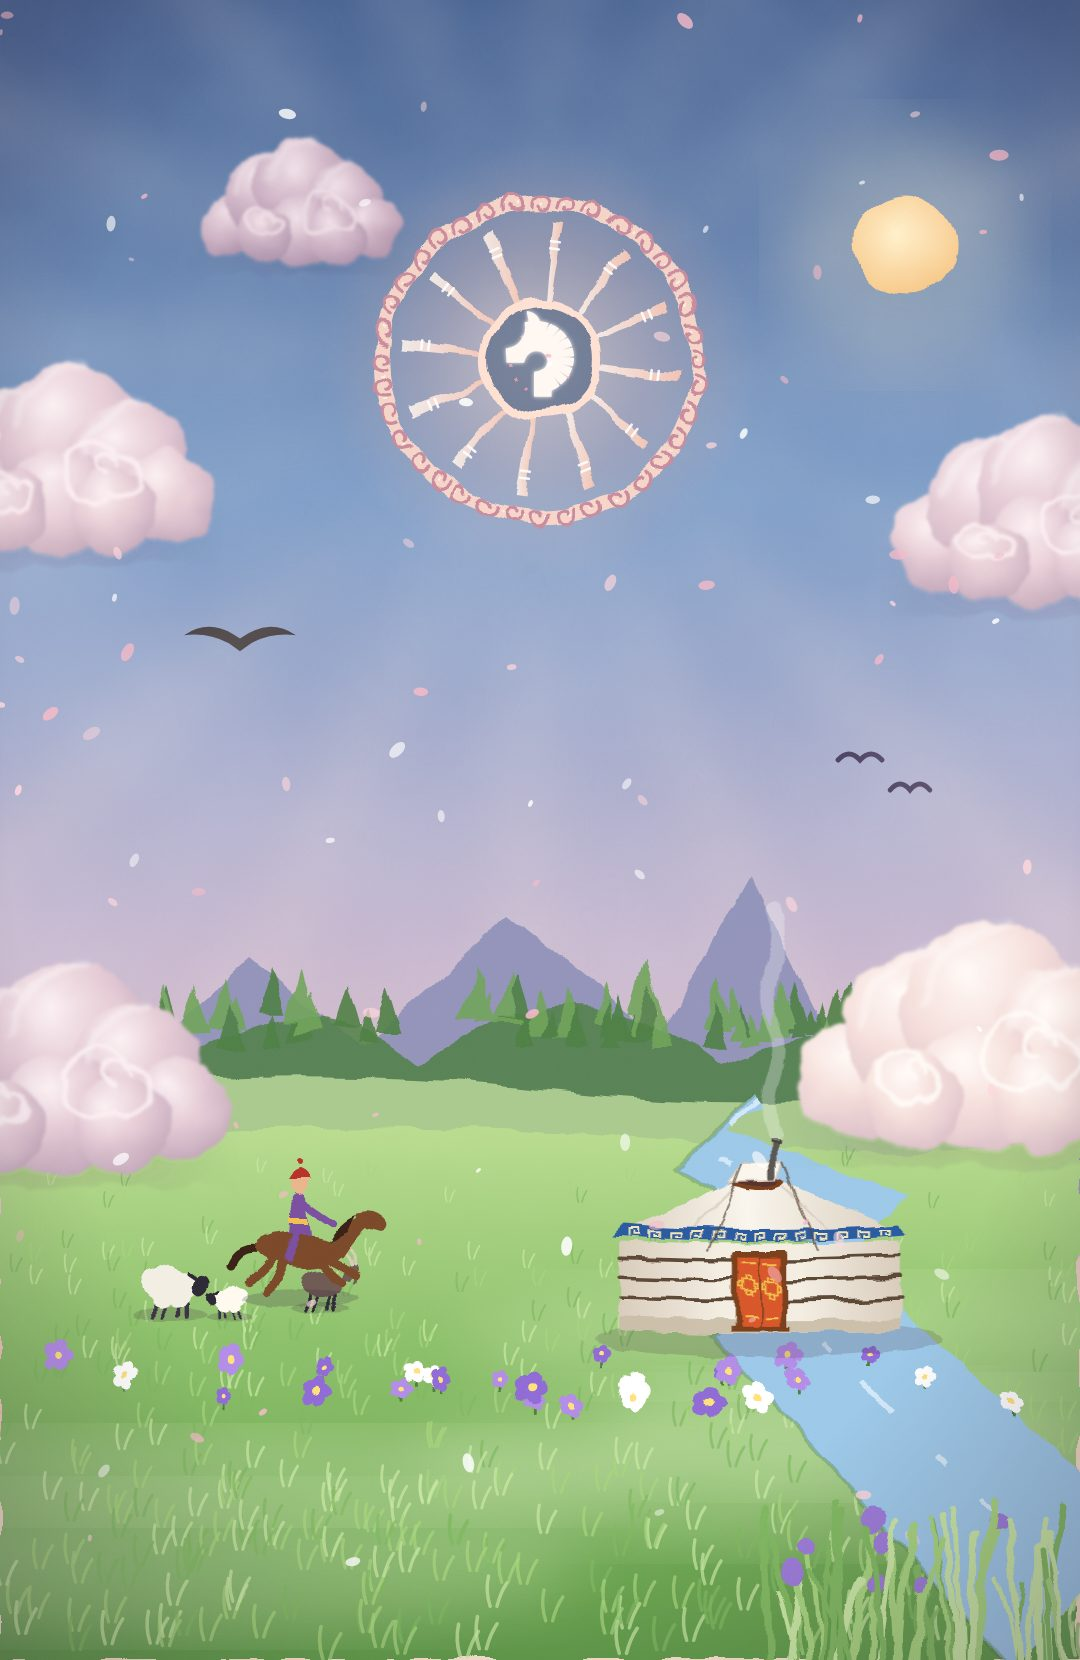
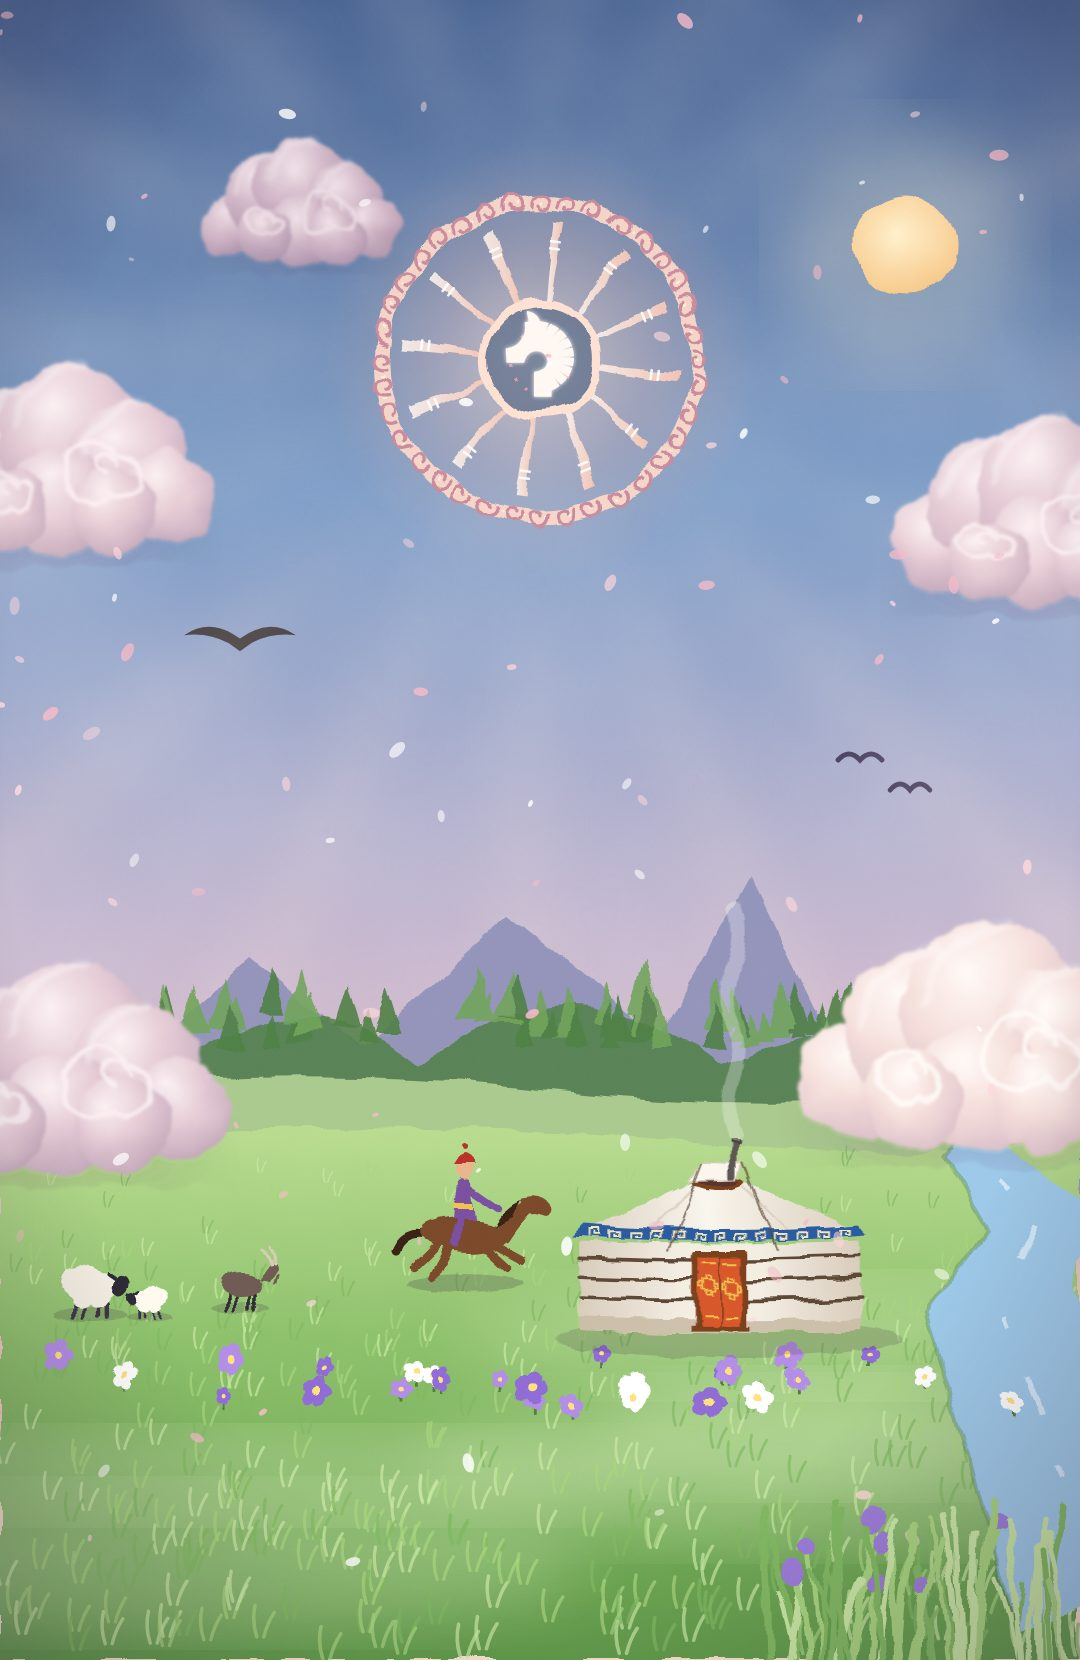
Fix photo viewer opening the first photo; heroes: ger off the river, horses apart
Claude-Session: https://claude.ai/code/session_013mTHg5jK5EjhttnQogVYog

Changed region(s): [[0.5194, 0.553, 1.0, 1.0], [0.0611, 0.6759, 0.5194, 0.7988], [0.9778, 0.9524, 1.0, 0.9831]]

diff --git a/css/style.css b/css/style.css
@@ -3507,16 +3507,16 @@ html.i18n-wait body { visibility: hidden; }
 .form__status.is-err { color: #b8322a; }
 /* Home hero changes with the season (html[data-season] is set in the page head) */
 .hero__bg--season { background: #1a1d36 center 40% / cover no-repeat; }
-html[data-season="winter"] .hero__bg--season { background-image: url(../assets/img/hero-winter.jpg?v=9); }
-html[data-season="spring"] .hero__bg--season { background-image: url(../assets/img/hero-spring.jpg?v=9); background-color: #7c9cc7; }
-html[data-season="summer"] .hero__bg--season { background-image: url(../assets/img/hero-summer.jpg?v=9); background-color: #3f86cf; }
-html[data-season="autumn"] .hero__bg--season { background-image: url(../assets/img/hero-autumn.jpg?v=9); background-color: #a65a5c; }
+html[data-season="winter"] .hero__bg--season { background-image: url(../assets/img/hero-winter.jpg?v=10); }
+html[data-season="spring"] .hero__bg--season { background-image: url(../assets/img/hero-spring.jpg?v=10); background-color: #7c9cc7; }
+html[data-season="summer"] .hero__bg--season { background-image: url(../assets/img/hero-summer.jpg?v=10); background-color: #3f86cf; }
+html[data-season="autumn"] .hero__bg--season { background-image: url(../assets/img/hero-autumn.jpg?v=10); background-color: #a65a5c; }
 @media (max-width: 700px) {
   .hero__bg--season { background-position: center top; }
-  html[data-season="winter"] .hero__bg--season { background-image: url(../assets/img/hero-winter-m.jpg?v=9); }
-  html[data-season="spring"] .hero__bg--season { background-image: url(../assets/img/hero-spring-m.jpg?v=9); }
-  html[data-season="summer"] .hero__bg--season { background-image: url(../assets/img/hero-summer-m.jpg?v=9); }
-  html[data-season="autumn"] .hero__bg--season { background-image: url(../assets/img/hero-autumn-m.jpg?v=9); }
+  html[data-season="winter"] .hero__bg--season { background-image: url(../assets/img/hero-winter-m.jpg?v=10); }
+  html[data-season="spring"] .hero__bg--season { background-image: url(../assets/img/hero-spring-m.jpg?v=10); }
+  html[data-season="summer"] .hero__bg--season { background-image: url(../assets/img/hero-summer-m.jpg?v=10); }
+  html[data-season="autumn"] .hero__bg--season { background-image: url(../assets/img/hero-autumn-m.jpg?v=10); }
 }
 
 /* Plainer, calmer look: no grid paper, dashed frames, pulsing dots or

diff --git a/index.html b/index.html
@@ -26,7 +26,7 @@
   <link rel="preconnect" href="https://fonts.googleapis.com">
   <link rel="preconnect" href="https://fonts.gstatic.com" crossorigin>
   <link href="https://fonts.googleapis.com/css2?family=Inter:wght@400;500;600;700&family=Inter+Tight:wght@500;600;700&family=PT+Serif:ital@0;1&display=swap" rel="stylesheet">
-  <link rel="stylesheet" href="css/style.css?v=106">
+  <link rel="stylesheet" href="css/style.css?v=107">
   <script>
     (function () {
       var d = document.documentElement, s = null, l = null;
@@ -38,7 +38,7 @@
       var se = q || (m >= 3 && m <= 5 ? "spring" : m >= 6 && m <= 8 ? "summer" : m >= 9 && m <= 10 ? "autumn" : "winter");
       d.setAttribute("data-season", se);
       var pl = document.createElement("link"); pl.rel = "preload"; pl.as = "image"; pl.fetchPriority = "high";
-      pl.setAttribute("imagesrcset", "assets/img/hero-" + se + "-m.jpg?v=9 1080w, assets/img/hero-" + se + ".jpg?v=9 2560w");
+      pl.setAttribute("imagesrcset", "assets/img/hero-" + se + "-m.jpg?v=10 1080w, assets/img/hero-" + se + ".jpg?v=10 2560w");
       pl.setAttribute("imagesizes", "100vw"); document.head.appendChild(pl);
       // Mongolian is the default; English only when the visitor chose it.
       if (l !== "en") { d.setAttribute("data-lang", "mn"); d.lang = "mn"; d.classList.add("i18n-wait"); setTimeout(function () { d.classList.remove("i18n-wait"); }, 2500); }
@@ -496,6 +496,6 @@
   </footer>
 
   <script src="js/i18n.js?v=54"></script>
-  <script src="js/main.js?v=42"></script>
+  <script src="js/main.js?v=43"></script>
 </body>
 </html>

diff --git a/culture/index.html b/culture/index.html
@@ -20,7 +20,7 @@
   <link rel="preconnect" href="https://fonts.googleapis.com">
   <link rel="preconnect" href="https://fonts.gstatic.com" crossorigin>
   <link href="https://fonts.googleapis.com/css2?family=Inter:wght@400;500;600;700&family=Inter+Tight:wght@500;600;700&family=PT+Serif:ital@0;1&display=swap" rel="stylesheet">
-  <link rel="stylesheet" href="../css/style.css?v=106">
+  <link rel="stylesheet" href="../css/style.css?v=107">
   <script>
     (function () {
       var d = document.documentElement, s = null, l = null;
@@ -198,7 +198,7 @@
 
   <dialog class="hbook" id="hbook" aria-label="Picture book"></dialog>
   <script src="../js/i18n.js?v=54"></script>
-  <script src="../js/main.js?v=42"></script>
+  <script src="../js/main.js?v=43"></script>
   <script src="../js/heritage-art.js?v=8"></script>
   <script src="../js/heritage.js?v=11"></script>
 </body>

diff --git a/environment.html b/environment.html
@@ -20,7 +20,7 @@
   <link rel="preconnect" href="https://fonts.googleapis.com">
   <link rel="preconnect" href="https://fonts.gstatic.com" crossorigin>
   <link href="https://fonts.googleapis.com/css2?family=Inter:wght@400;500;600;700&family=Inter+Tight:wght@500;600;700&family=PT+Serif:ital@0;1&display=swap" rel="stylesheet">
-  <link rel="stylesheet" href="css/style.css?v=106">
+  <link rel="stylesheet" href="css/style.css?v=107">
   <script>
     (function () {
       var d = document.documentElement, s = null, l = null;
@@ -241,6 +241,6 @@
     <button class="lightbox__nav lightbox__nav--next" type="button" aria-label="Next photo">›</button>
   </div>
   <script src="js/i18n.js?v=54"></script>
-  <script src="js/main.js?v=42"></script>
+  <script src="js/main.js?v=43"></script>
 </body>
 </html>

diff --git a/research.html b/research.html
@@ -20,7 +20,7 @@
   <link rel="preconnect" href="https://fonts.googleapis.com">
   <link rel="preconnect" href="https://fonts.gstatic.com" crossorigin>
   <link href="https://fonts.googleapis.com/css2?family=Inter:wght@400;500;600;700&family=Inter+Tight:wght@500;600;700&family=PT+Serif:ital@0;1&display=swap" rel="stylesheet">
-  <link rel="stylesheet" href="css/style.css?v=106">
+  <link rel="stylesheet" href="css/style.css?v=107">
   <script>
     (function () {
       var d = document.documentElement, s = null, l = null;
@@ -219,7 +219,7 @@
   </footer>
 
   <script src="js/i18n.js?v=54"></script>
-  <script src="js/main.js?v=42"></script>
+  <script src="js/main.js?v=43"></script>
 <script>
 document.addEventListener("click", (e) => {
   const b = e.target.closest("[data-copy]");

diff --git a/edu.html b/edu.html
@@ -20,7 +20,7 @@
   <link rel="preconnect" href="https://fonts.googleapis.com">
   <link rel="preconnect" href="https://fonts.gstatic.com" crossorigin>
   <link href="https://fonts.googleapis.com/css2?family=Inter:wght@400;500;600;700&family=Inter+Tight:wght@500;600;700&family=PT+Serif:ital@0;1&display=swap" rel="stylesheet">
-  <link rel="stylesheet" href="css/style.css?v=106">
+  <link rel="stylesheet" href="css/style.css?v=107">
   <script>
     (function () {
       var d = document.documentElement, s = null, l = null;
@@ -594,6 +594,6 @@
   </div>
   <script src="js/vendor/page-flip.browser.js"></script>
   <script src="js/i18n.js?v=54"></script>
-  <script src="js/main.js?v=42"></script>
+  <script src="js/main.js?v=43"></script>
 </body>
 </html>

diff --git a/plan.html b/plan.html
@@ -20,7 +20,7 @@
   <link rel="preconnect" href="https://fonts.googleapis.com">
   <link rel="preconnect" href="https://fonts.gstatic.com" crossorigin>
   <link href="https://fonts.googleapis.com/css2?family=Inter:wght@400;500;600;700&family=Inter+Tight:wght@500;600;700&family=PT+Serif:ital@0;1&display=swap" rel="stylesheet">
-  <link rel="stylesheet" href="css/style.css?v=106">
+  <link rel="stylesheet" href="css/style.css?v=107">
   <script>
     (function () {
       var d = document.documentElement, s = null, l = null;
@@ -282,6 +282,6 @@
 
   <script src="js/vendor/page-flip.browser.js"></script>
   <script src="js/i18n.js?v=54"></script>
-  <script src="js/main.js?v=42"></script>
+  <script src="js/main.js?v=43"></script>
 </body>
 </html>

diff --git a/member.html b/member.html
@@ -20,7 +20,7 @@
   <link rel="preconnect" href="https://fonts.googleapis.com">
   <link rel="preconnect" href="https://fonts.gstatic.com" crossorigin>
   <link href="https://fonts.googleapis.com/css2?family=Inter:wght@400;500;600;700&family=Inter+Tight:wght@500;600;700&family=PT+Serif:ital@0;1&display=swap" rel="stylesheet">
-  <link rel="stylesheet" href="css/style.css?v=106">
+  <link rel="stylesheet" href="css/style.css?v=107">
   <script>
     (function () {
       var d = document.documentElement, s = null, l = null;
@@ -113,6 +113,6 @@
 
   <script src="js/team.js?v=21"></script>
   <script src="js/i18n.js?v=54"></script>
-  <script src="js/main.js?v=42"></script>
+  <script src="js/main.js?v=43"></script>
 </body>
 </html>

diff --git a/js/main.js b/js/main.js
@@ -384,7 +384,8 @@ document.querySelectorAll(".marquee").forEach((row) => {
   row.addEventListener("click", (e) => {
     const img = e.target.closest(".photo")?.querySelector("img");
     if (!img) return;
-    const i = list.findIndex((p) => p.src === img.getAttribute("src"));
+    const src = img.dataset.full || img.getAttribute("src");
+    const i = list.findIndex((p) => p.src === src);
     openLightbox(list, Math.max(0, i));
   });
 });
